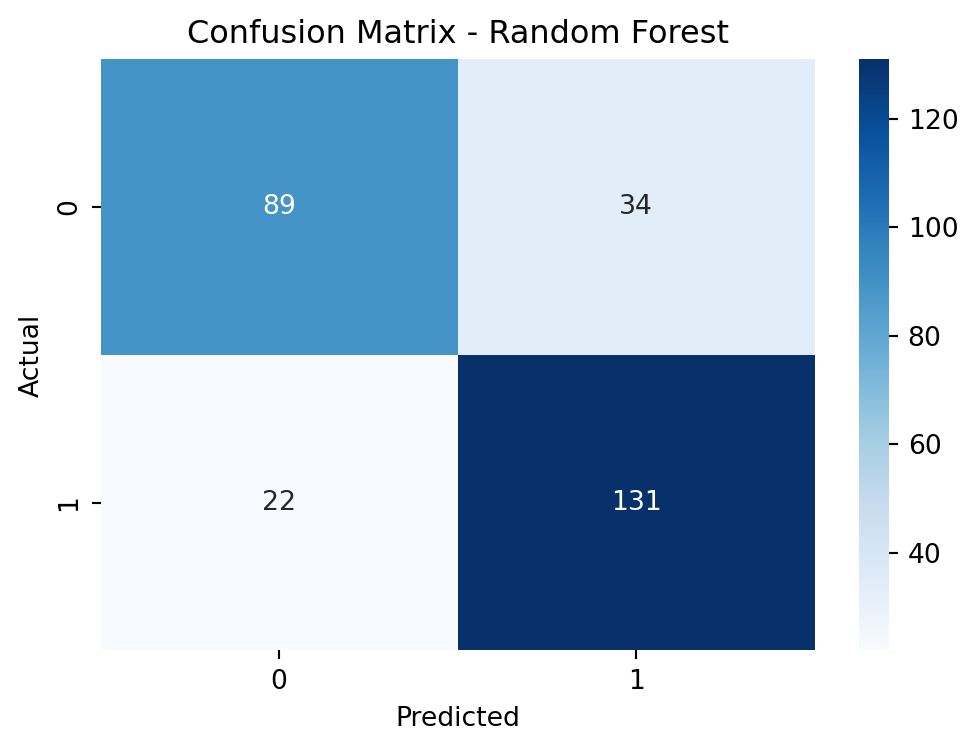
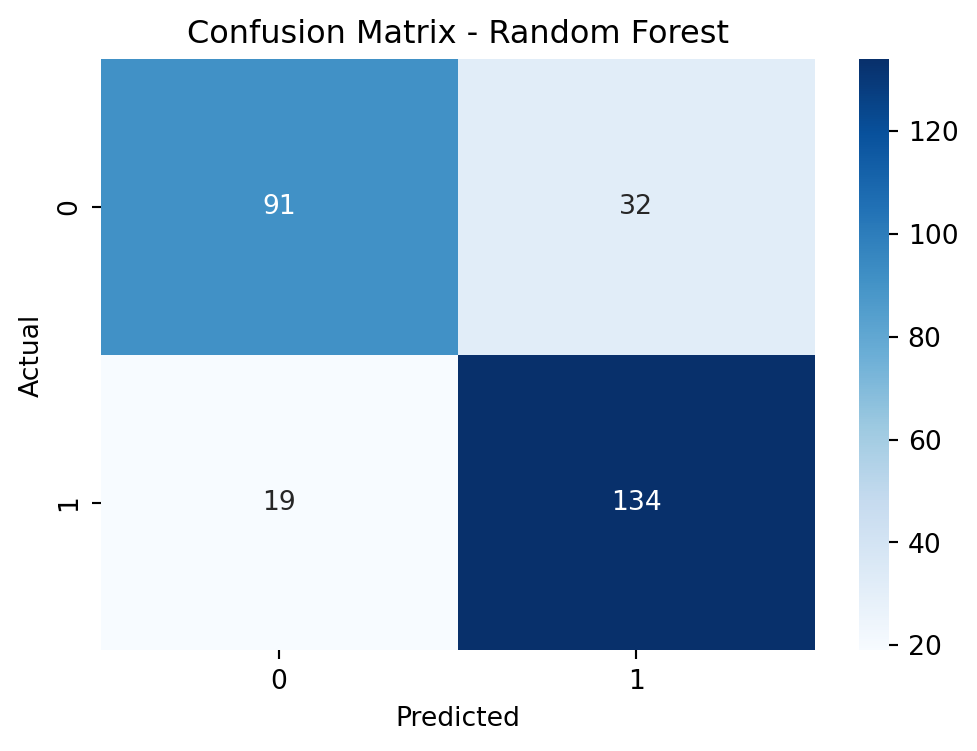
set seed for RF model

diff --git a/docs/posts/heart disease prediction/heart-disease.html b/docs/posts/heart disease prediction/heart-disease.html
@@ -1139,7 +1139,7 @@ dtype: int64</code></pre>
 <div class="cell" data-execution_count="18">
 <details open="">
 <summary>Code</summary>
-<div class="sourceCode cell-code" id="cb26"><pre class="sourceCode python code-with-copy"><code class="sourceCode python"><span id="cb26-1"><a href="#cb26-1" aria-hidden="true" tabindex="-1"></a>rf <span class="op">=</span> RandomForestClassifier()</span>
+<div class="sourceCode cell-code" id="cb26"><pre class="sourceCode python code-with-copy"><code class="sourceCode python"><span id="cb26-1"><a href="#cb26-1" aria-hidden="true" tabindex="-1"></a>rf <span class="op">=</span> RandomForestClassifier(random_state<span class="op">=</span><span class="dv">37</span>)</span>
 <span id="cb26-2"><a href="#cb26-2" aria-hidden="true" tabindex="-1"></a>rf.fit(X_train, y_train)</span>
 <span id="cb26-3"><a href="#cb26-3" aria-hidden="true" tabindex="-1"></a>y_pred_rf <span class="op">=</span> rf.predict(X_test)</span></code><button title="Copy to Clipboard" class="code-copy-button"><i class="bi"></i></button></pre></div>
 </details>
@@ -1190,11 +1190,11 @@ AUC Score: 0.7842
 
 
 Metrics for Random Forest:
-Accuracy: 0.7971
-Precision: 0.7939
-Recall: 0.8562
-F1 Score: 0.8239
-AUC Score: 0.7899
+Accuracy: 0.8152
+Precision: 0.8072
+Recall: 0.8758
+F1 Score: 0.8401
+AUC Score: 0.8078
 
 </code></pre>
 </div>
@@ -1212,16 +1212,14 @@ AUC Score: 0.7899
 <span id="cb29-8"><a href="#cb29-8" aria-hidden="true" tabindex="-1"></a>    plt.ylabel(<span class="st">'Actual'</span>)</span>
 <span id="cb29-9"><a href="#cb29-9" aria-hidden="true" tabindex="-1"></a>    plt.show()</span>
 <span id="cb29-10"><a href="#cb29-10" aria-hidden="true" tabindex="-1"></a></span>
-<span id="cb29-11"><a href="#cb29-11" aria-hidden="true" tabindex="-1"></a><span class="co"># Assuming you have predictions for each model (y_pred_knn, y_pred_logreg, y_pred_rf) and y_test available</span></span>
-<span id="cb29-12"><a href="#cb29-12" aria-hidden="true" tabindex="-1"></a></span>
-<span id="cb29-13"><a href="#cb29-13" aria-hidden="true" tabindex="-1"></a><span class="co"># Plot confusion matrix for KNN</span></span>
-<span id="cb29-14"><a href="#cb29-14" aria-hidden="true" tabindex="-1"></a>plot_confusion(y_test, y_pred_knn, <span class="st">'Confusion Matrix - KNN'</span>)</span>
-<span id="cb29-15"><a href="#cb29-15" aria-hidden="true" tabindex="-1"></a></span>
-<span id="cb29-16"><a href="#cb29-16" aria-hidden="true" tabindex="-1"></a><span class="co"># Plot confusion matrix for Logistic Regression</span></span>
-<span id="cb29-17"><a href="#cb29-17" aria-hidden="true" tabindex="-1"></a>plot_confusion(y_test, y_pred_log_reg, <span class="st">'Confusion Matrix - Logistic Regression'</span>)</span>
-<span id="cb29-18"><a href="#cb29-18" aria-hidden="true" tabindex="-1"></a></span>
-<span id="cb29-19"><a href="#cb29-19" aria-hidden="true" tabindex="-1"></a><span class="co"># Plot confusion matrix for Random Forest</span></span>
-<span id="cb29-20"><a href="#cb29-20" aria-hidden="true" tabindex="-1"></a>plot_confusion(y_test, y_pred_rf, <span class="st">'Confusion Matrix - Random Forest'</span>)</span></code><button title="Copy to Clipboard" class="code-copy-button"><i class="bi"></i></button></pre></div>
+<span id="cb29-11"><a href="#cb29-11" aria-hidden="true" tabindex="-1"></a><span class="co"># Plot confusion matrix for KNN</span></span>
+<span id="cb29-12"><a href="#cb29-12" aria-hidden="true" tabindex="-1"></a>plot_confusion(y_test, y_pred_knn, <span class="st">'Confusion Matrix - KNN'</span>)</span>
+<span id="cb29-13"><a href="#cb29-13" aria-hidden="true" tabindex="-1"></a></span>
+<span id="cb29-14"><a href="#cb29-14" aria-hidden="true" tabindex="-1"></a><span class="co"># Plot confusion matrix for Logistic Regression</span></span>
+<span id="cb29-15"><a href="#cb29-15" aria-hidden="true" tabindex="-1"></a>plot_confusion(y_test, y_pred_log_reg, <span class="st">'Confusion Matrix - Logistic Regression'</span>)</span>
+<span id="cb29-16"><a href="#cb29-16" aria-hidden="true" tabindex="-1"></a></span>
+<span id="cb29-17"><a href="#cb29-17" aria-hidden="true" tabindex="-1"></a><span class="co"># Plot confusion matrix for Random Forest</span></span>
+<span id="cb29-18"><a href="#cb29-18" aria-hidden="true" tabindex="-1"></a>plot_confusion(y_test, y_pred_rf, <span class="st">'Confusion Matrix - Random Forest'</span>)</span></code><button title="Copy to Clipboard" class="code-copy-button"><i class="bi"></i></button></pre></div>
 </details>
 <div class="cell-output cell-output-display">
 <p><img src="heart-disease_files/figure-html/cell-21-output-1.png" width="489" height="376"></p>
